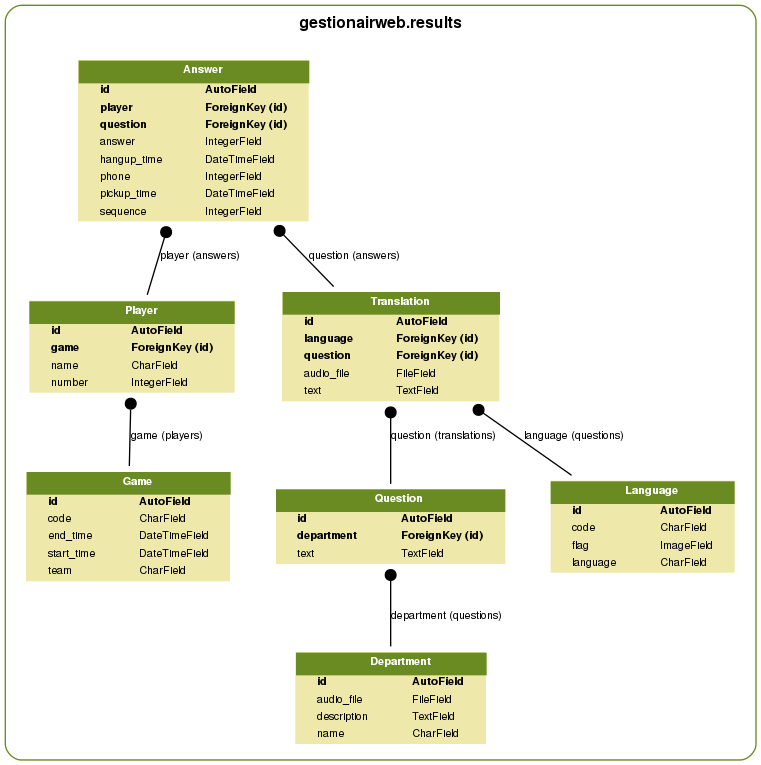
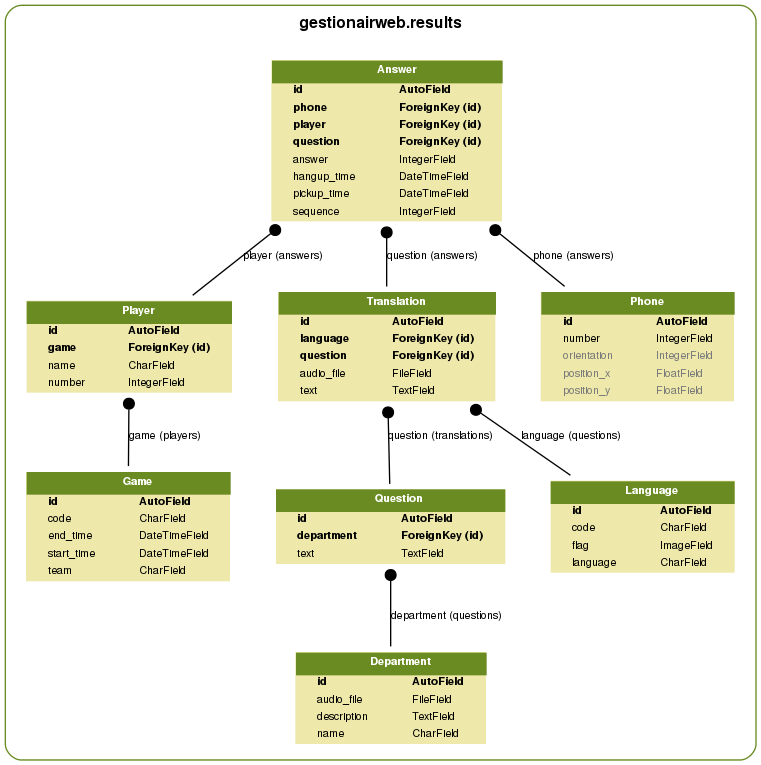
Added a phone entity with positional attributes (to draw the heatmap)

diff --git a/gestionairweb/results/models.py b/gestionairweb/results/models.py
@@ -58,8 +58,6 @@ class Answer(models.Model):
                                    help_text=_("The sequence of the questions for a player"))
     answer = models.IntegerField(verbose_name=_("answer given"),
                                  help_text=_("The answer key that was pressed during the game"))
-    phone = models.IntegerField(verbose_name=_("phone number"),
-                                help_text=_("The identifier of the phone used for this answer"))
     pickup_time = models.DateTimeField(verbose_name=_("pick up time"),
                                        help_text=_("The pick up time of the call"))
     hangup_time = models.DateTimeField(verbose_name=_("hang up time"),
@@ -69,6 +67,8 @@ class Answer(models.Model):
                                help_text=_("The player who answered the question"))
     question = models.ForeignKey('Translation', verbose_name=_('question'), related_name=_('answers'),
                                  help_text=_("The question/language which was answered"))
+    phone = models.ForeignKey('Phone', verbose_name=_("phone"), related_name=_('answers'),
+                              help_text=_("The identifier of the phone used for this answer"))
 
 
 class Question(models.Model):
@@ -107,3 +107,14 @@ class Department(models.Model):
                                    help_text=_("The description of the department"))
     audio_file = models.FileField(verbose_name=_("audio file"), upload_to='departments',
                                   help_text=_("The MP3 file of the department's description"))
+
+
+class Phone(models.Model):
+    number = models.IntegerField(verbose_name=_("phone number"),
+                                 help_text=_("The call number of the phone"))
+    position_x = models.FloatField(verbose_name=_("x position"), null=True, blank=True,
+                                   help_text=_("The position on the horizontal axis"))
+    position_y = models.FloatField(verbose_name=_("y position"), null=True, blank=True,
+                                   help_text=_("The position on the vertical axis"))
+    orientation = models.IntegerField(verbose_name=_("orientation"), default=0, blank=True,
+                                      help_text=_("The orientation of the phone in degrees"))
